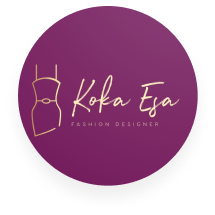
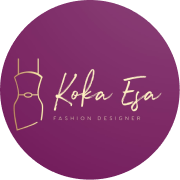
add  class="filter-shadow-partner"

diff --git a/src/components/avatars/img-avatar.vue b/src/components/avatars/img-avatar.vue
@@ -1,9 +1,11 @@
 <template>
-    <img class="d-image-avatar" 
-    :src="img"
+    <div class="d-image-avatar" 
+    :class="$attrs.class??''"
     :style="{height:`${size}px`,width:`${size}px`}"
-    v-bind="$attrs"
-    />
+    
+    >
+    <img :src="img" v-bind="{...$attrs,class:undefined}" />
+    </div>
 </template>
 
 <script>
@@ -28,5 +30,11 @@ export default {
     /*background-size: cover;
     background-repeat: no-repeat;
     background-position: center;*/
+}
+.d-image-avatar>img{
+    width:100%;
+    height:100%;
+    object-fit: fill;
+    border-radius: 50%!important;
 }
 </style>

diff --git a/src/views/academy/home/parts/section-our-partners/tab-content/index.vue b/src/views/academy/home/parts/section-our-partners/tab-content/index.vue
@@ -1,7 +1,7 @@
 <template>
 <div class="row justify-content-around">
     <div v-for="(im,i) in items" :key="i" class="col-6 col-md-3 text-center" data-aos="fade-up" data-aos-duration="1000">
-                    <ImgAvatar :img="im.image_path" :alt="im.name??''"  size=180 />
+                    <ImgAvatar class="filter-shadow-partner" :img="im.image_path" :alt="im.name??''"  size=180 />
                 </div>
                 <div v-if="items.length==0" style="min-height:180px" class="col-12  d-flex align-items-center">
                   <h3 class="t-c">{{ $t('no-items') }}</h3>

diff --git a/src/views/network/home/auth/parts/section-partners/tab-content/index.vue b/src/views/network/home/auth/parts/section-partners/tab-content/index.vue
@@ -1,7 +1,7 @@
 <template>
 <div class="row justify-content-around">
     <div v-for="(im,i) in items" :key="i" class="col-6 col-md-3 text-center" data-aos="fade-up" data-aos-duration="1000">
-                    <ImgAvatar :img="im.image_path" :alt="im.name??''"  size=180 />
+                    <ImgAvatar class="filter-shadow-partner" :img="im.image_path" :alt="im.name??''"  size=180 />
                 </div>
                 <div v-if="items.length==0" style="min-height:180px" class="col-12  d-flex align-items-center">
                   <h3 class="t-c">{{ $t('no-items') }}</h3>

diff --git a/src/views/Index/parts/section-partners/index.vue b/src/views/Index/parts/section-partners/index.vue
@@ -4,7 +4,7 @@
             <h2>{{ $t('our-partners-in-riadiat') }}</h2>
             <div class="row justify-content-center  gap-2">
                 <div v-for="(partner,i) in items" :key="i" class=" col-12 col-md-3 text-center" data-aos="fade-up" data-aos-duration="2000">
-                    <ImgAvatar :img="partner.image_path"  size=180 />
+                    <ImgAvatar class="filter-shadow-partner" :img="partner.image_path"  size=180 />
                 </div>
             </div>
         </div>

diff --git a/src/views/academy/departments/show/parts/section-our-partners/index.vue b/src/views/academy/departments/show/parts/section-our-partners/index.vue
@@ -6,7 +6,7 @@
               <div class=" ">
                  
                 <div v-for="(im,i) in items" :key="i" class="col-6 col-md-3 text-center" data-aos="fade-up" data-aos-duration="1000">
-                    <ImgAvatar :img="im.image_path" :alt="im.name??''"  size=180 />
+                    <ImgAvatar class="filter-shadow-partner" :img="im.image_path" :alt="im.name??''"  size=180 />
                 </div>
             </div>
                 </div>

diff --git a/src/views/incubator/home/parts/section-our-partners/index.vue b/src/views/incubator/home/parts/section-our-partners/index.vue
@@ -6,7 +6,7 @@
             <div class="row">
 
                 <div v-for="(partner,i) in partners" :key="i" class="col-12 col-md-3 text-center mt-2" data-aos="fade-up" data-aos-duration="1000">
-                    <ImgAvatar :img="partner.img" :alt="partner.name" size=180 />
+                    <ImgAvatar class="filter-shadow-partner" :img="partner.img" :alt="partner.name" size=180 />
                 </div>
             </div>
         </div>

diff --git a/src/views/network/home/parts/section-subscribe/tab-content/beauty.vue b/src/views/network/home/parts/section-subscribe/tab-content/beauty.vue
@@ -1,7 +1,7 @@
 <template>
 <div class="row justify-content-center">
     <div v-for="(partner,i) in partners" :key="i" class="col-6 col-md-3 text-center" data-aos="fade-up" data-aos-duration="1000">
-                    <ImgAvatar :img="partner.img" :alt="partner.name" size=180 />
+                    <ImgAvatar class="filter-shadow-partner" :img="partner.img" :alt="partner.name" size=180 />
                 </div>
             </div>
 </template>

diff --git a/src/views/network/home/parts/section-subscribe/tab-content/design.vue b/src/views/network/home/parts/section-subscribe/tab-content/design.vue
@@ -1,7 +1,7 @@
 <template>
 <div class="row justify-content-center">
     <div v-for="(partner,i) in partners" :key="i" class="col-6 col-md-3 text-center" data-aos="fade-up" data-aos-duration="1000">
-                    <ImgAvatar :img="partner.img" :alt="partner.name" size=180 />
+                    <ImgAvatar class="filter-shadow-partner" :img="partner.img" :alt="partner.name" size=180 />
                 </div>
             </div>
 </template>

diff --git a/src/views/network/home/parts/section-subscribe/tab-content/designer.vue b/src/views/network/home/parts/section-subscribe/tab-content/designer.vue
@@ -1,7 +1,7 @@
 <template>
 <div class="row justify-content-center">
     <div v-for="(partner,i) in partners" :key="i" class="col-6 col-md-3 text-center" data-aos="fade-up" data-aos-duration="1000">
-                    <ImgAvatar :img="partner.img" :alt="partner.name" size=180 />
+                    <ImgAvatar class="filter-shadow-partner" :img="partner.img" :alt="partner.name" size=180 />
                 </div>
             </div>
 </template>

diff --git a/src/views/network/home/parts/section-subscribe/tab-content/fashion.vue b/src/views/network/home/parts/section-subscribe/tab-content/fashion.vue
@@ -1,7 +1,7 @@
 <template>
 <div class="row justify-content-center">
     <div v-for="(partner,i) in partners" :key="i" class="col-6 col-md-3 text-center" data-aos="fade-up" data-aos-duration="1000">
-                    <ImgAvatar :img="partner.img" :alt="partner.name" size=180 />
+                    <ImgAvatar class="filter-shadow-partner" :img="partner.img" :alt="partner.name" size=180 />
                 </div>
             </div>
 </template>

diff --git a/src/views/network/home/parts/section-subscribe/tab-content/flowers.vue b/src/views/network/home/parts/section-subscribe/tab-content/flowers.vue
@@ -1,7 +1,7 @@
 <template>
 <div class="row justify-content-center">
     <div v-for="(partner,i) in partners" :key="i" class="col-6 col-md-3 text-center" data-aos="fade-up" data-aos-duration="1000">
-                    <ImgAvatar :img="partner.img" :alt="partner.name" size=180 />
+                    <ImgAvatar class="filter-shadow-partner" :img="partner.img" :alt="partner.name" size=180 />
                 </div>
             </div>
 </template>

diff --git a/src/views/network/home/parts/section-subscribe/tab-content/jewelry.vue b/src/views/network/home/parts/section-subscribe/tab-content/jewelry.vue
@@ -1,7 +1,7 @@
 <template>
 <div class="row justify-content-center">
     <div v-for="(partner,i) in partners" :key="i" class="col-6 col-md-3 text-center" data-aos="fade-up" data-aos-duration="1000">
-                    <ImgAvatar :img="partner.img" :alt="partner.name" size=180 />
+                    <ImgAvatar class="filter-shadow-partner" :img="partner.img" :alt="partner.name" size=180 />
                 </div>
             </div>
 </template>
